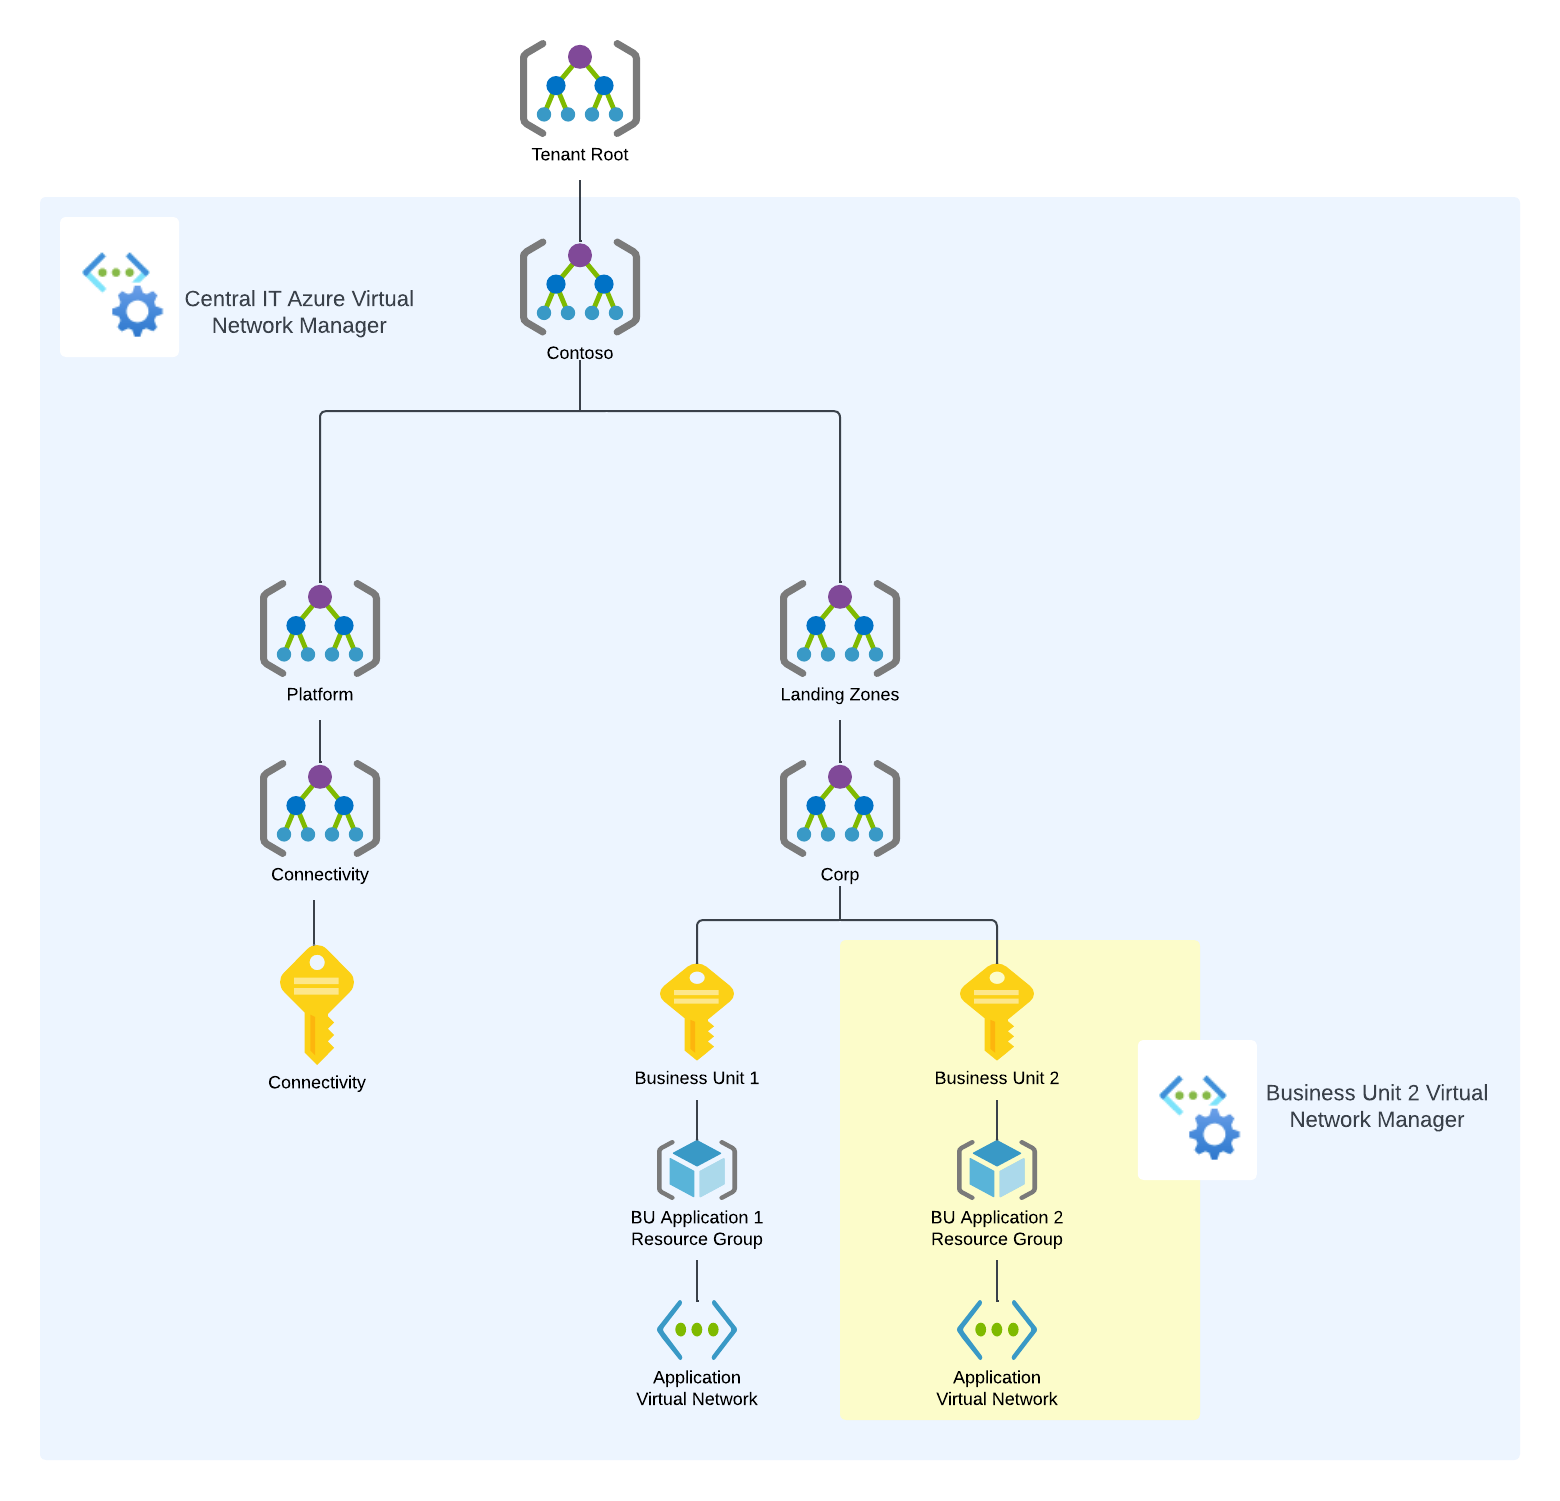
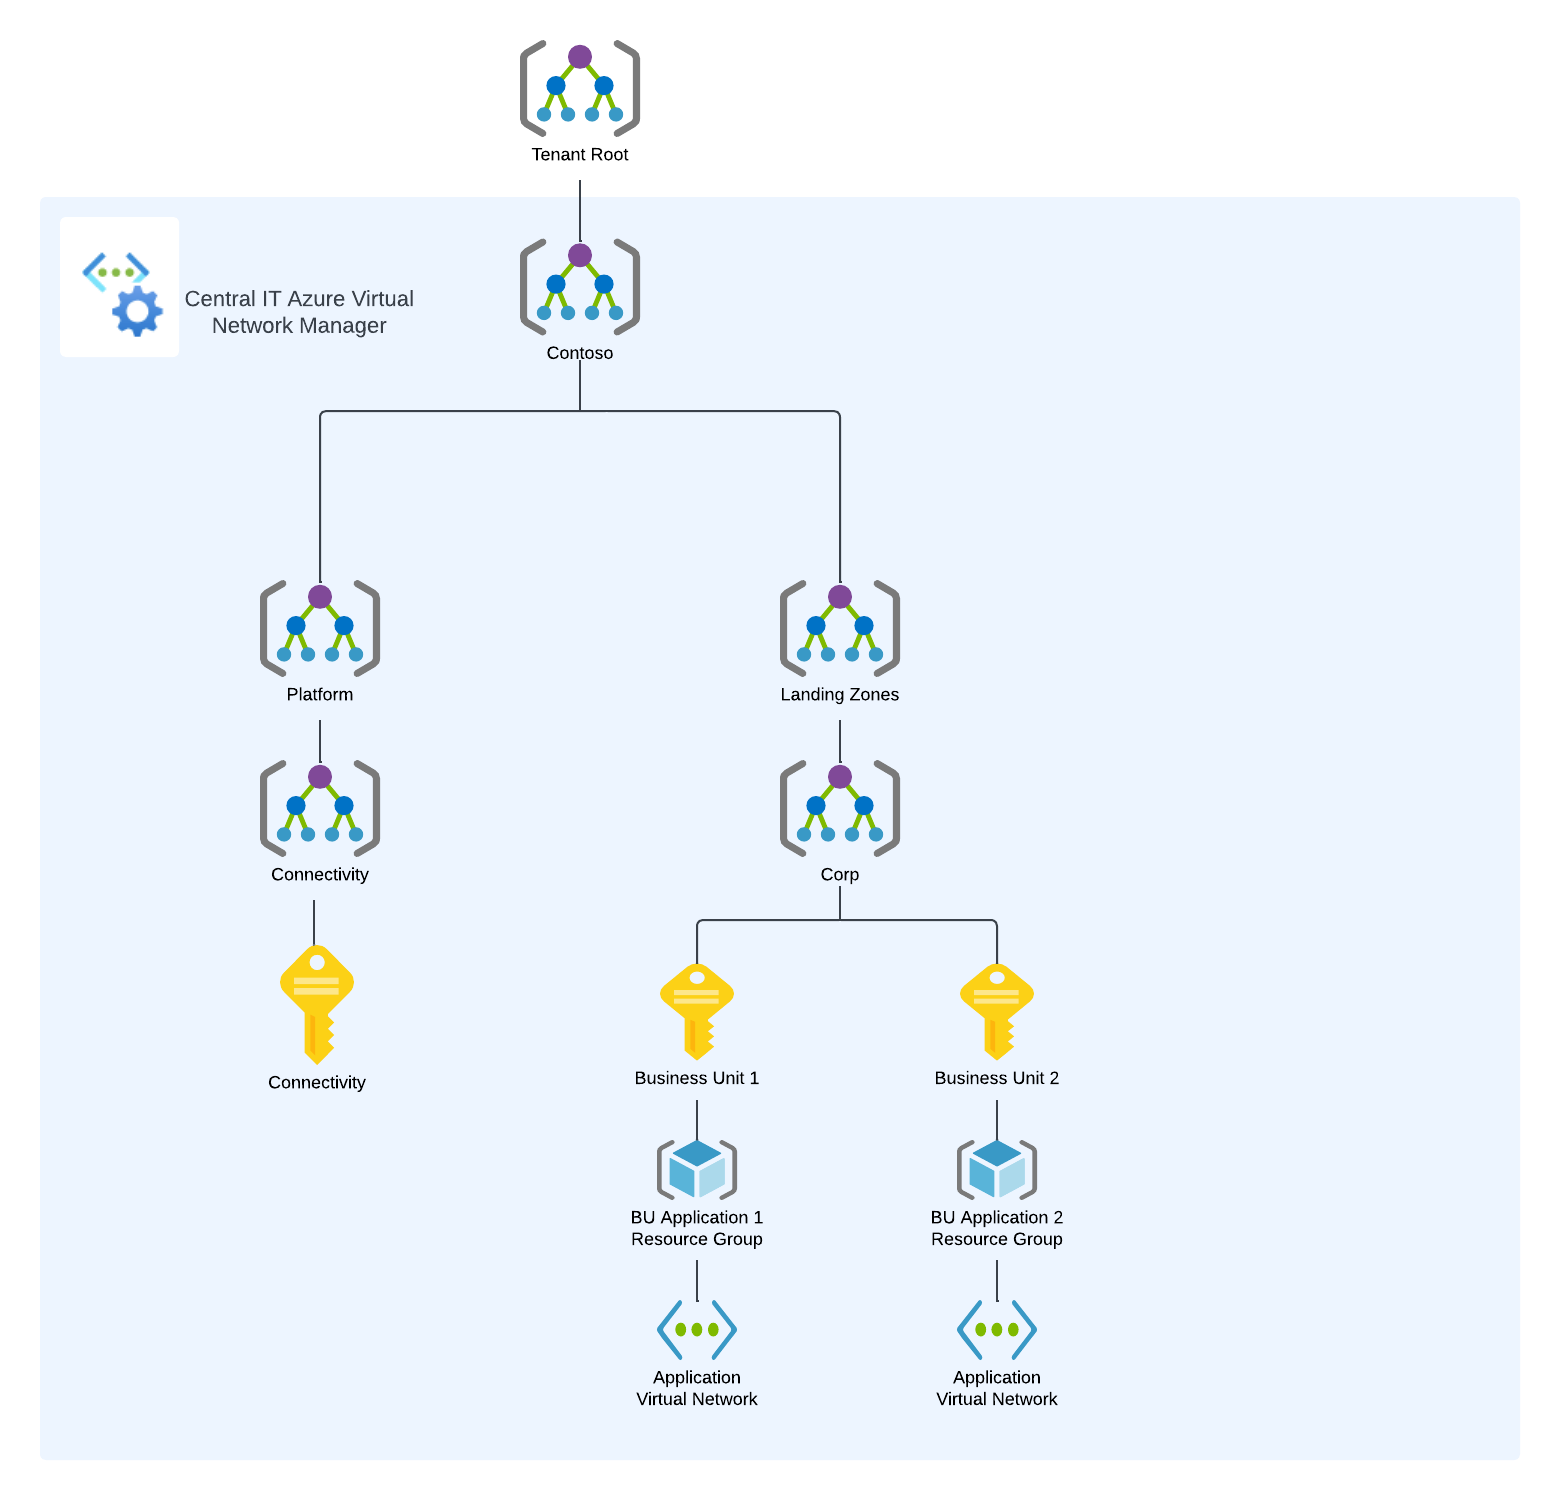
modified - added scenario 4

Changed region(s): [[0.5231, 0.6129, 0.8, 0.95], [0.8308, 0.7049, 0.9538, 0.7662]]

diff --git a/blog/security-rules.md b/blog/security-rules.md
@@ -114,6 +114,33 @@ SSH connections from the trusted jump hosts is allowed because both the security
 
 ![ssh success](../images/d3-ssh-success.png)
 
+## Multiple Azure Virtual Network Managers
+In this scenario one of the organization's business units has requested an Azure Virtual Network Manager instance to use to manage their subscriptions. Central IT must maintain their instance and ensure it takes precedence.
+
+Azure Virtual Network Manager supports multiple instances as long as those instances are applied at different scopes. In the scenario above, Central IT would set the resource scope of their instance high up in the management group structure while business unit would set their resource scope to their subscriptions. 
+
+The architecture is pictured below.
+
+![multiple avnm architecture](../images/d4-arch.png)
+
+The business unit builds an instance with a SecurityAdmin Configuration containing a rule collection that applies to a network group for virtual networks running non-production workloads. The new network group will use Azure Policy to manage the dynamic membership of the group based upon the virtual networks having the tag of environment=nonproduction.
+
+The rule collection contains a single rule that uses the always allow action to allow inbound SSH traffic from all sources. This rule conflicts with Central IT's rule which limits inbound SSH traffic to trusted jump servers. 
+
+The application team deploys the SecurityAdmin Configuration to the relevant Azure regions. 
+
+![avnm rule collections](../images/d4-security-admin-rules.png)
+
+The application team attempts to SSH into one of their non-production virtual networks but the traffic is denied.
+
+![ssh failing with multiple avnms](../images/d4-ssh-fail.png)
+
+The connection fails because when multiple Azure Virtual Network Managers apply to a virtual network, and two security admin rules conflict, the rule from the highest scope applied. In this instance the Central IT instance is applied at a higher level management scope from the business unit instance and the rules limiting the source of SSH traffic take precedence.
+
+
+
+
+
 
 
 
